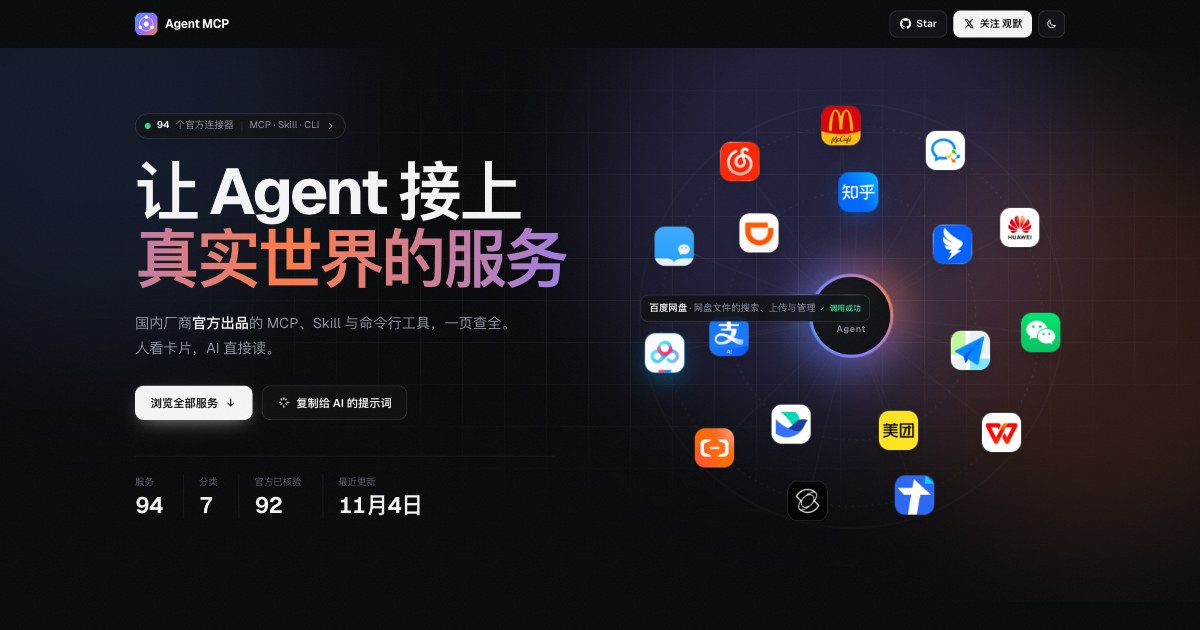
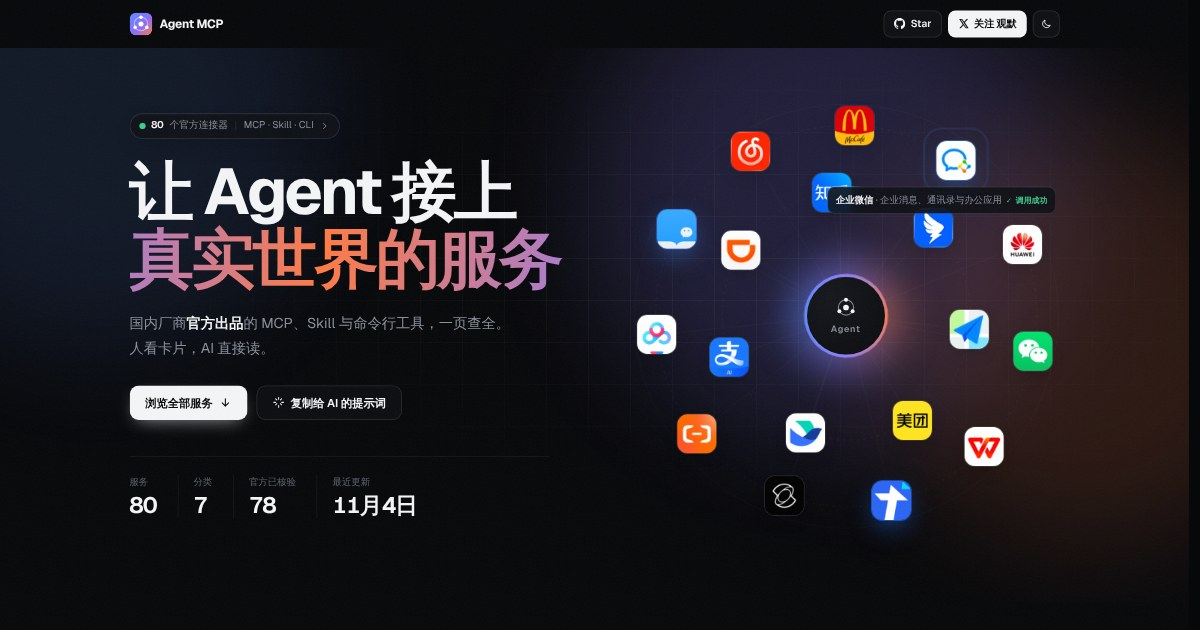
设计：上线前卡片与手机列表优化，并准备上线任务清单 (#19)
* 设计：上线前卡片与手机列表优化，并给 Codex 定下「保持简单」规则

- 卡片：已核验改为名称旁的认证章，只有待核验保留文字标签；域名不再被挤成省略号
- 已核验统一用蓝色，绿色只表示「只读查询」，避免两种含义混用
- 手机：卡片改为紧凑横排（图标在左，名称 / 一句话 / 标签三行），首页高度约减少 20%
- 首页轨道提示文字限制在 14 字以内，手机上不再遮挡图标
- 修复页面右侧滚动条预留区与背景色不一致
- 删除为动效时长附带的第三方许可文件，精简 docs/MOTION.md
- AGENTS.md 新增「保持简单」规则；CODEX_TASKS 改为只列上线前剩余任务
- 更新首页分享图

Claude-Session: https://claude.ai/code/session_01M6UTaj3RJ8eDLb5LELC7Qq

* 保留 Fluent UI 动效规范，并准备上线任务清单

- 恢复 Fluent UI motion token 的许可声明与引用，docs/MOTION.md 写明采用的规范
- AGENTS.md「保持简单」第 4 条改为：可以采用顶尖设计规范，照许可附声明即可
- CODEX_TASKS 改为上线 0–5：审核合并、收录范围调整（维护者要求）、仓库首页信息、可用性检查、Lighthouse 95+、英文 README，并附一次做完的总提示词

Claude-Session: https://claude.ai/code/session_01M6UTaj3RJ8eDLb5LELC7Qq

---------

diff --git a/web/app.css b/web/app.css
@@ -48,7 +48,7 @@
 /* ── Base ─────────────────────────────────────────────── */
 *, *::before, *::after { box-sizing: border-box; }
 [hidden] { display: none !important; }
-html { scrollbar-gutter: stable; }
+html { scrollbar-gutter: stable; background: var(--bg); }
 html:has(dialog[open]) { overflow: hidden; }
 .page-paused *, .page-paused *::before, .page-paused *::after,
 .motion-paused *, .motion-paused *::before, .motion-paused *::after { animation-play-state: paused !important; }
@@ -237,11 +237,15 @@ h1 span { display: block; }
 .logo.mono { background: var(--brand); color: #fff; font-weight: 700; font-size: 19px; background-image: linear-gradient(160deg, rgba(255, 255, 255, .25), transparent 60%); }
 .logo.lg { width: 68px; height: 68px; font-size: 28px; }
 .card-title { min-width: 0; flex: 1; }
-.card-title h3, .card-title h4 { margin: 0; font-size: 16.5px; font-weight: 650; letter-spacing: -.015em; white-space: nowrap; overflow: hidden; text-overflow: ellipsis; }
+.card-title h3, .card-title h4 { display: flex; align-items: center; gap: 5px; min-width: 0; margin: 0; font-size: 16.5px; font-weight: 650; letter-spacing: -.015em; }
+.card-title .nm { min-width: 0; white-space: nowrap; overflow: hidden; text-overflow: ellipsis; }
+.vseal { flex: none; display: inline-grid; color: var(--a1); }
+.vseal .seal { width: 16px; height: 16px; }
 .domain { margin: 2px 0 0; font: 400 11.5px/1.4 var(--mono); color: var(--faint); white-space: nowrap; overflow: hidden; text-overflow: ellipsis; }
 .vbadge { flex: none; display: inline-flex; align-items: center; gap: 4px; height: 22px; padding: 0 8px; border-radius: 999px; font-size: 11.5px; font-weight: 600; }
 .vbadge svg { width: 12px; height: 12px; fill: none; stroke: currentColor; stroke-width: 2.4; stroke-linecap: round; stroke-linejoin: round; }
-.vbadge.verified { color: var(--read); background: color-mix(in srgb, var(--read) 12%, transparent); }
+.vbadge.verified { color: var(--a1); background: color-mix(in srgb, var(--a1) 12%, transparent); }
+.vbadge .seal { width: 14px; height: 14px; }
 .vbadge.unverified { color: var(--faint); background: var(--card-2); }
 .card-sum { margin: 0; color: var(--muted); font-size: 14px; line-height: 1.6; display: -webkit-box; -webkit-line-clamp: 2; -webkit-box-orient: vertical; overflow: hidden; }
 .card-foot { display: flex; align-items: center; gap: 6px; margin-top: auto; }
@@ -412,7 +416,16 @@ dialog::backdrop { background: rgba(5, 6, 8, .5); backdrop-filter: blur(6px); -w
   .seg, .toggle { flex: none; }
   .result { display: none; }
   .grid { grid-template-columns: 1fr; gap: 10px; }
-  .card { min-height: 0; padding: 16px; }
+  /* 手机：紧凑横排卡片，图标在左，名称 / 一句话 / 标签三行 */
+  .card { display: grid; grid-template-columns: 44px minmax(0, 1fr); column-gap: 14px; row-gap: 5px; align-items: start; min-height: 0; padding: 14px 14px 14px 12px; border-radius: 16px; }
+  .card-top { display: contents; }
+  .card .logo { grid-row: 1 / span 3; width: 44px; height: 44px; }
+  .card-title, .card-sum, .card-foot, .card .vbadge { grid-column: 2; }
+  .card .domain { display: none; }
+  .card .vbadge { justify-self: start; height: 20px; font-size: 11px; }
+  .card-sum { -webkit-line-clamp: 1; font-size: 13.5px; }
+  .card-foot { margin-top: 2px; }
+  .card:hover { transform: none; }
   .for-ai { padding: 80px 0 48px; }
   .bento-card { padding: 18px; border-radius: 18px; }
   .chat { min-height: 0; }

diff --git a/web/app.js b/web/app.js
@@ -121,7 +121,10 @@ function resetFilters() {
   render();
 }
 
-const verb = (s) => s.summary.replace(/。$/, '').split(/[，,]/)[0].split('、').slice(0, 2).join('、');
+const verb = (s) => {
+  const v = s.summary.replace(/。$/, '').split(/[，,；;]/)[0].split('、').slice(0, 2).join('、');
+  return v.length > 14 ? `${v.slice(0, 13)}…` : v;
+};
 const typeTags = (s) => renderTypeTags(s, L);
 const textMatch = (s, toks) => renderTextMatch(s, toks, DB);
 

diff --git a/docs/CODEX_TASKS.md b/docs/CODEX_TASKS.md
@@ -1,99 +1,88 @@
 # 给 Codex 的任务
 
-在仓库根目录打开 Codex，把下面的提示词整段粘贴进去。每个任务都是：开 PR → CI 通过 → 自己合并（`gh pr merge --squash --delete-branch`）→ 确认网站发布成功，不需要等维护者。建议按顺序做。
+在仓库根目录打开 Codex，把提示词整段粘贴进去。先读 `AGENTS.md`，尤其是「保持简单」。每个任务的流程都是：开 PR → CI 通过 → 自己合并（`gh pr merge --squash --delete-branch`）→ 确认「发布网站」成功。
+
+已完成：首批核验、补图标、服务独立页、WorkBuddy 与三个 GitHub 清单的补充。
+
+## 一次做完上线任务
+
+```
+先读 AGENTS.md（尤其是「保持简单」）和 docs/CODEX_TASKS.md。按顺序完成 docs/CODEX_TASKS.md 里的「上线 0」到「上线 5」，每个任务单独开一个 PR，CI 通过后自己合并，确认「发布网站」成功后再做下一个。遇到需要维护者决定的问题，写在对应 PR 描述里，继续做下一个任务，不要停下来等。全部做完后，用一段话汇报每个任务的结果和遗留问题。
+```
 
 ---
 
-## 任务 0：审核框架
+## 上线 0：审核合并 Claude 的设计改动
 
 ```
-先读 AGENTS.md 和 docs/REVIEW.md。这个仓库的框架、网站和 Skill 是另一个 AI 写的，请按 docs/REVIEW.md 里「代码与网站」那一节逐项审核。
-1. 运行 npm run check 和 npm run serve，用浏览器分别在桌面宽度和 390px 宽度、深色和浅色模式下检查网站。
-2. 对照 Claude Code、Cursor、Codex 当前的官方文档，确认 web/app.js 中 snippets() 生成的配置格式正确。
-3. 审核结果按 docs/REVIEW.md 开头的格式写成清单。明显又小的问题直接修；涉及设计取舍的问题只列出来，不要改。
-4. 开 PR，标题「审核：框架与网站」，审核清单写进 PR 描述。CI 通过后自己合并。
+按 docs/REVIEW.md 审核 Claude 开的 PR（分支 claude/prelaunch-design）。代码有问题的直接在该分支修；纯视觉取舍只在 PR 里留言，不要改。CI 通过后合并。
 ```
 
-## 任务 1：核验已导入的 55 条
+## 上线 1：收录范围调整（维护者要求）
 
 ```
-先读 AGENTS.md、docs/SCHEMA.md 和 docs/VERIFYING.md。data/services.json 里首批 55 条全部是 unverified。
-请逐条核验：
-1. 打开 url，按 docs/VERIFYING.md 判断是否为官方出品。是官方的，改成 verified 并补全 evidence；确认不是的，改成 rejected 并写明 rejectedReason；暂时判断不了的，保持 unverified，并在 PR 里说明原因。
-2. 对照官方文档修正 types、access、risk、summary；文档给出了 MCP 端点或启动命令的，填写 install.mcp。
-3. 链接如果是跳转页或短链，换成最直接的官方页面。
-4. 每 10 到 15 条提交一次。全部做完后运行 npm run build 和 npm run check。
-5. 开 PR，标题「数据：核验首批 55 条」，描述里用表格列出每条的结论和证据链接。CI 通过后自己合并。
+维护者决定：收录范围从「上市集团或少数头部厂商」放宽为「官方出品 + 有一定知名度」。新规则，官方出品之外满足任意一条即可：
+1. 上市公司或其控股子公司的服务；
+2. 大众熟知：App Store 中国区官方 App 的评分数（iTunes lookup 接口的 userRatingCount）≥ 10,000；
+3. 开发者熟知：官方开源主仓库 GitHub star ≥ 10,000；
+4. 维护者点名收录：Gitee、极狐 GitLab、Apifox。
+步骤：
+- 把 docs/VERIFYING.md「先核对收录范围」一节改成上面的规则，删掉原来的例外名单，不要另写判定流程。
+- 用上面的规则重新检查 data/services.json 里所有 rejected 条目：符合规则、而且当初只是因为范围被拒的，改回 verified（官方核验记录仍有效就沿用，过期的重新核验），删掉 rejectedReason；不符合的保持 rejected。每条的判断依据（评分数、star 数或上市信息）写在 PR 描述的表格里，不写进数据。
+- 重新收录的条目要补齐图标（node scripts/fetch-logos.mjs <id>）和服务分享图（node scripts/og-services.mjs <id>）；服务数量变了，就先 npm run serve，再运行 node scripts/og-image.mjs 更新首页分享图。
+开 PR，CI 通过后自己合并。
 ```
 
-## 任务 2：从 WorkBuddy 补充
+## 上线 2：GitHub 仓库首页信息
 
 ```
-先读 AGENTS.md 和 docs/COLLECTING.md。
-WorkBuddy 的「专家 · 技能 · 连接器」页面列出了已接入的服务。我会把截图或名单给你（也可以在本机查看 WorkBuddy 的界面）。
-1. 整理出所有国内服务，和 data/services.json 去重。
-2. 对每个新服务，到厂商官方页面找到对应的 MCP、Skill 或 CLI，按 docs/COLLECTING.md 的步骤收录。
-3. 不要把 WorkBuddy 里的任何文件复制进仓库，线索来源只写在 PR 描述里。
-4. 给新条目补图标：填 homepage 和 appStoreId，运行 node scripts/fetch-logos.mjs。
-5. 开 PR，标题「数据：新增 N 个（来源：WorkBuddy）」。CI 通过后自己合并。
+用 gh 设置仓库首页右上角的 About，内容照抄，不要改写：
+gh repo edit guanmo-ai/awesome-agent-mcp \
+  --description "国内官方 MCP · Skill · CLI 大全：让你的 Agent 接上高德、飞书、美团、支付宝……只收厂商官方出品，人看网页，AI 读 llms.txt。" \
+  --homepage "https://guanmo-ai.github.io/awesome-agent-mcp/" \
+  --add-topic mcp,model-context-protocol,mcp-server,agent-skills,ai-agent,claude-code,codex,llms-txt,awesome,awesome-list,china,chinese
+社交预览图：GitHub 没有设置它的公开 API。如果你能操作浏览器，在仓库 Settings → General → Social preview 上传 web/og.jpg；不能操作就跳过，在最后的汇报里说明。
+这个任务不改代码，不需要开 PR。
 ```
 
-## 任务 3：从 GitHub 上的其他清单补充
+## 上线 3：可用性检查
 
 ```
-先读 AGENTS.md 和 docs/COLLECTING.md。
-逐个查看 docs/COLLECTING.md 里「GitHub 上的其他清单」列出的仓库，找出 data/services.json 里还没有的国内服务。
-只收能在厂商官方页面确认的；社区封装一律不收。不要照搬那些仓库的描述文字。
-给新条目补图标（同任务 2）。每个来源开一个 PR，标题「数据：新增 N 个（来源：仓库名）」，CI 通过后自己合并。
+我们不测试各厂商服务本身的功能，只检查我们发布的内容是否可用。在现有的 scripts/check-links.mjs 上扩展，不要新建框架，代码改动控制在 150 行以内。
+对每个展示中的服务：
+1. 远程 MCP（install.mcp 的 http / sse）：不带 Key 发一次 MCP initialize 请求。服务器返回 MCP 响应，或者返回 401 / 403（说明需要鉴权，端点在线），都算通过；DNS 失败、404、5xx、超时算失败。
+2. 本地 MCP 与 CLI：确认 npm / PyPI 上的包存在、没有被标记为废弃，发布者与厂商一致。
+3. Skill：install.skill 能打开；是 SKILL.md 的，开头有 name 和 description。
+结果只输出到命令行和 Actions 的 Job Summary，不写进 data/。失败项人工确认后再改数据：确实失效的，找到新地址或按 docs/VERIFYING.md 处理。
+开 PR，附一次完整运行结果，CI 通过后自己合并。
 ```
 
-## 任务 4：定期维护（建议每周一次）
+## 上线 4：性能、SEO、无障碍达到 95 分以上
+
+```
+用 Lighthouse（npx lighthouse，移动端与桌面端各跑一次）检测首页和任意一个服务独立页，四项都要达到 95 分以上。
+- 只做程序层面的优化：图片尺寸与格式、字体加载、懒加载、缓存、语义与 aria。
+- 对比度、字号、颜色、布局等视觉问题不要自己改，列在 PR 描述里交给 Claude。
+- PR 描述贴优化前后的分数，CI 通过后自己合并。
+```
+
+## 上线 5：英文 README
+
+```
+给 data/services.json 的每个展示中的条目补 nameEn 和 summaryEn（官方英文名优先，没有就用拼音名），让 scripts/build.mjs 额外生成 README.en.md，结构与 README.md 一致，两个 README 顶部互相链接。网站暂不做英文版。
+开 PR，CI 通过后自己合并。
+```
+
+---
+
+## 维护（上线后每周一次）
 
 ```
 先读 AGENTS.md 和 docs/VERIFYING.md。
-1. 运行 npm run links，逐个人工确认报告失效的链接：被拦截的不算失效，真正失效的要找到新地址或标 rejected。
-2. 找出 evidence.checkedAt 超过 180 天的条目，重新核验。
-3. 查看 GitHub 上新开的「提交服务」和「报告问题」issue，逐个处理。
-4. 服务数量有变化时，运行 npm run serve，再运行 node scripts/og-image.mjs，更新分享图。
-5. 开 PR，标题「维护：YYYY-MM-DD」。CI 通过后自己合并。
-```
-
-## 任务 5：补图标
-
-```
-先读 AGENTS.md。同程商旅（ly-tmc）、腾讯云（tencent-cloud）、七牛云（qiniu）还没有图标，网页上显示的是文字图块。
-1. 在 App Store 中国区找到它们的官方 App（开发者必须是该厂商），把数字 id 填进 appStoreId；没有 App 的，确认 homepage 正确。
-2. 运行 node scripts/fetch-logos.mjs ly-tmc tencent-cloud qiniu。
-3. 淘宝、飞猪、瑞幸、天眼查、巨量引擎的 App 图标目前带有节日或活动图案。等活动结束后运行 node scripts/fetch-logos.mjs --force 重新抓取。
-4. 开 PR，CI 通过后自己合并。
-```
-
-## 任务 6：服务独立页（设计稿已就绪）
-
-```
-先读 AGENTS.md 和 web/service.html 顶部的注释。web/service.html 是服务独立页的设计稿模板，样式已写在 web/app.css 的「Service page」一节，不要改动视觉设计。
-1. 在 scripts/build.mjs 中为每个展示中的服务生成 dist/s/<id>/index.html：按模板注释填充占位符。把 web/app.js 里 openSheet() 用到的标签、徽章、配置片段等拼装逻辑抽成一个可在 Node 和浏览器共用的模块（例如 web/render.mjs），两边用同一份，保证独立页与详情抽屉的内容一致。所有数据都必须转义。
-2. {{prompt}} 写成：读取 <siteUrl>s/<id>/ ，帮我把<服务名>的官方接入配置进我的 Agent，Key 我自己填。
-3. {{jsonLd}} 输出 schema.org SoftwareApplication（name、description、url、applicationCategory、publisher=厂商），注意 JSON 中的 </script> 需转义。
-4. 新增 web/service.js：负责独立页上的复制、配置标签页切换、主题切换和 ⌘K 面板。尽量从 app.js 复用，不要复制粘贴两份逻辑。
-5. 首页卡片和命令面板保持当前抽屉交互，抽屉里的「复制链接」改为复制独立页地址；README 和 llms.txt 中每个服务额外附上独立页链接。
-6. 生成 dist/sitemap.xml 和 dist/robots.txt。
-7. 为每个服务生成分享图 dist/og/<id>.jpg（1200×630）：参考 web/og.jpg 的深色风格，左侧大图标 + 服务名 + 一句话 + 类型标签，右下角品牌标。用 Playwright 渲染，脚本放 scripts/og-services.mjs；它在本机运行，生成的图片提交到 web/og/，构建时复制到 dist/og/。
-8. 加测试：每个服务都有独立页、页面里没有残留 {{ 占位符、sitemap 覆盖所有服务。
-9. 开 PR，附桌面与手机截图，CI 通过后自己合并。
-```
-
-## 任务 7：性能、SEO、无障碍达到 95 分以上
-
-```
-先读 AGENTS.md。用 Lighthouse（npx lighthouse，移动端与桌面端各跑一次）检测首页和任意一个服务独立页，四项（Performance、Accessibility、Best Practices、SEO）都要达到 95 分以上。
-- 只做程序层面的优化：图片尺寸与格式（图标可转 WebP 并保留 PNG 回退）、字体加载、关键 CSS、懒加载、缓存、语义与 aria、对比度。
-- 涉及视觉变化（颜色、字号、布局）的问题，不要自己改，在 PR 里列出来交给 Claude 设计处理。
-- PR 描述里贴优化前后的分数，CI 通过后自己合并。
-```
-
-## 任务 8（以后再做）：英文版
-
-```
-给每个条目补 nameEn 和 summaryEn，让 scripts/build.mjs 额外生成 README.en.md，并在网页上加中英文切换。开 PR 前先把方案写在 PR 描述里给我确认。
+1. 运行可用性检查，人工确认失败项：被拦截的不算失效，真正失效的要找到新地址或按规则处理。
+2. evidence.checkedAt 超过 180 天的条目重新核验。
+3. 处理 GitHub 上新开的「提交服务」和「报告问题」issue。
+4. 活动图案过期的 App 图标，用 node scripts/fetch-logos.mjs <id> 重新抓取。
+5. 服务数量有变化时，先运行 npm run serve，再运行 node scripts/og-image.mjs 更新首页分享图；新增服务用 node scripts/og-services.mjs 补分享图。
+6. 开 PR，标题「维护：YYYY-MM-DD」，CI 通过后自己合并。
 ```

diff --git a/docs/MOTION.md b/docs/MOTION.md
@@ -1,13 +1,7 @@
-# 网站交互与动效
+# 动效
 
-网站保持原生 HTML、CSS 和 JavaScript，不引入框架或境外运行时资源。
+动效属于设计，改动由 Claude 负责。
 
-动效时间与减速曲线采用微软 [Fluent UI](https://github.com/microsoft/fluentui) 的公开 token：150ms 用于按压和退出，200ms 用于搜索与结果进入，250ms 用于详情抽屉。使用 `curveDecelerateMax` 和 `curveEasyEase`，许可为 MIT，完整声明随网站发布在 [web/licenses/fluentui.txt](../web/licenses/fluentui.txt)。动画实现由本站编写。
-
-整体节奏参考 IBM [Carbon 动效指南](https://www.carbondesignsystem.com/building-blocks/foundations/motion/overview) 的 productive motion：反馈跟随操作，退出比进入短。没有复制或安装 Carbon 代码。
-
-目录在构建时生成，配套交互数据随同一份 HTML 交付，首页无需另等 JSON 请求，旧页面也不会混用新数据。JavaScript 加载后复用已有卡片。筛选不替换分类按钮或整片列表；卡片本身保留真实链接，脚本未加载时仍能访问独立页。共享模块使用同一个内容版本；对尚未带内嵌数据的旧版 HTML，首次加载时重新对齐目录和统计。
-
-详情在点击时立即打开，动画不会延后业务操作；搜索按帧合并输入。结果动画只作用于视口附近新出现的卡片。鼠标光效每帧只测量指向的卡片，触屏不运行。详情打开、轨道离屏或页面进入后台时，相关演示停止；系统的“减少动态效果”设置会即时生效。
-
-验证覆盖桌面、390px 手机布局、键盘搜索、组合筛选、空结果、深浅色、直接详情链接、减少动态效果以及无 JavaScript 的目录入口。浏览器模拟不能替代真实手机的性能测量。
+- 时长与曲线采用微软 [Fluent UI](https://github.com/microsoft/fluentui) 的公开 motion token（MIT，声明见 [web/licenses/fluentui.txt](../web/licenses/fluentui.txt)）：按压与退出 150ms，搜索结果进入 200ms，详情抽屉 250ms。
+- 节奏参考 IBM [Carbon](https://carbondesignsystem.com/elements/motion/overview/) 的 productive motion：反馈跟随操作，退出比进入短，动画不延后任何操作。
+- 详情打开、轨道离屏或页面切到后台时动画暂停；系统开启「减少动态效果」时立即停止。

diff --git a/AGENTS.md b/AGENTS.md
@@ -34,6 +34,16 @@
 8. 不要把内部研究记录、私人信息或凭据写进仓库。
 9. 提交身份用 `观默 <316967716+guanmo-ai@users.noreply.github.com>`。
 
+## 保持简单（每个任务都要遵守）
+
+1. 用最小的改动解决问题：能改一行就不改十行，能改现有文件就不新建文件。
+2. 不新增依赖、框架或构建步骤。同一段逻辑没有在两处以上重复，就不抽新模块。
+3. 不新增文档文件。说明写进 PR 描述；只有规则变了才改现有文档。
+4. 可以采用 Fluent UI、Carbon 等顶尖设计规范，照其许可附上声明即可；不要为此另写流程或文档。
+5. 一个 PR 的代码改动（不算 `data/`、图片和生成文件）超过 300 行时，先在 PR 描述里说明为什么不能更小，能拆就拆。
+6. 不为假想的未来需求写兼容层、缓存方案或配置开关。需求不确定时，在 PR 描述里提问，不要先做出来。
+7. 收录范围、分类方式、文案语气属于产品决定，只有维护者明确要求时才改。
+
 ## 分工
 
 - **视觉设计归 Claude**：配色、字体、布局、动画、页面结构和设计稿模板（如 `web/service.html`）。Codex 不改视觉；发现设计问题，写进 PR 描述交给 Claude。
